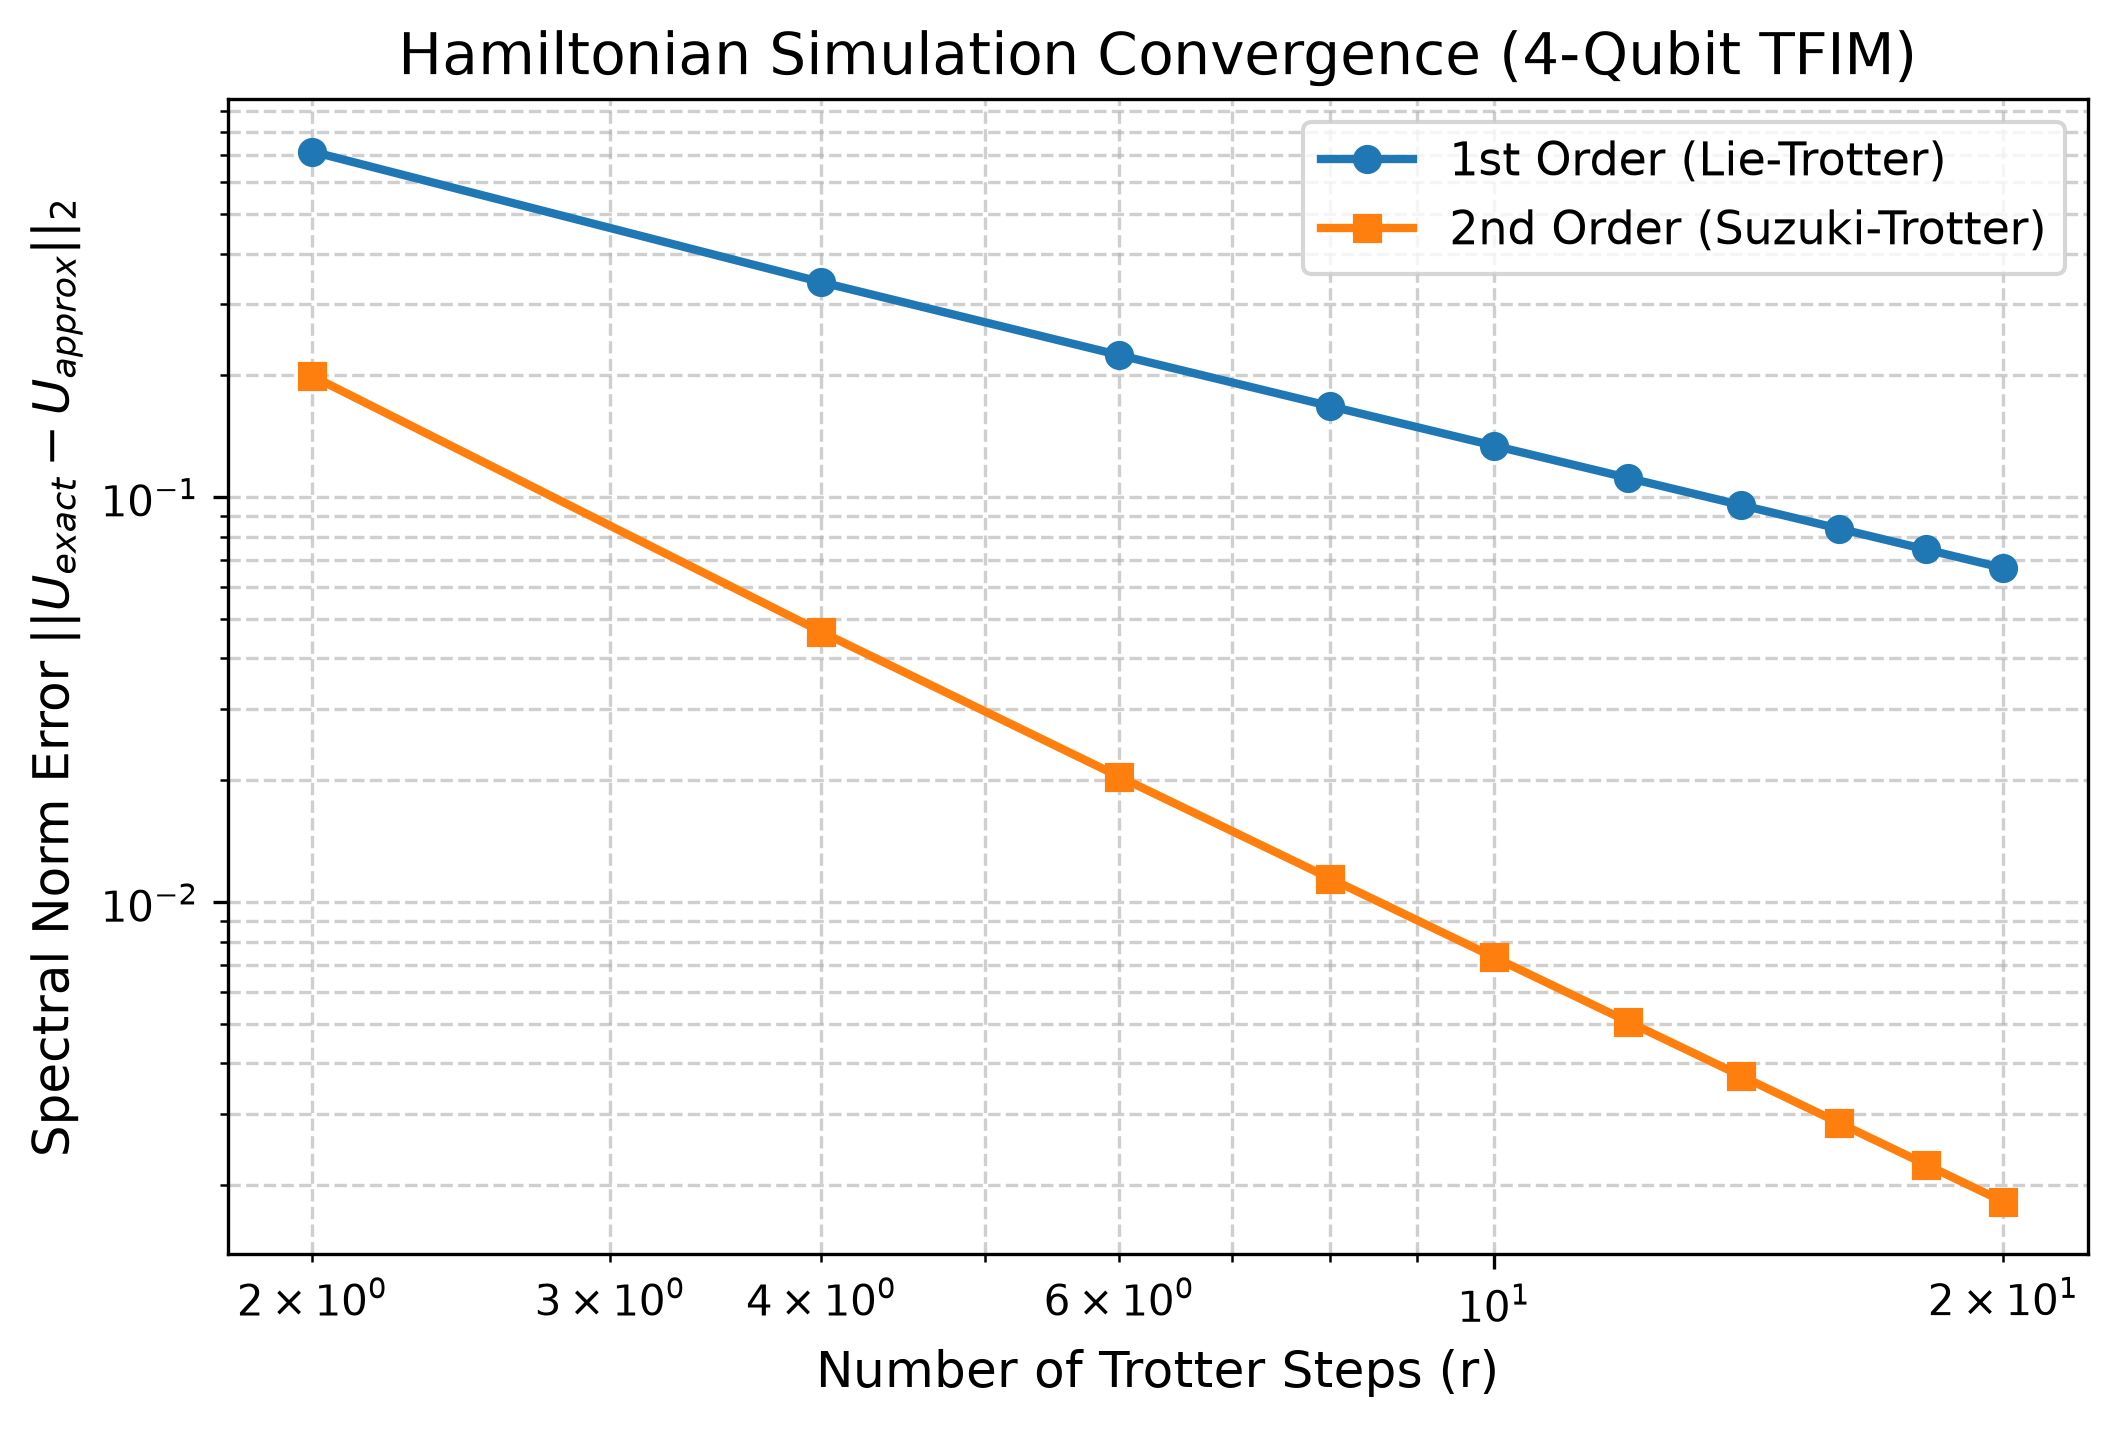
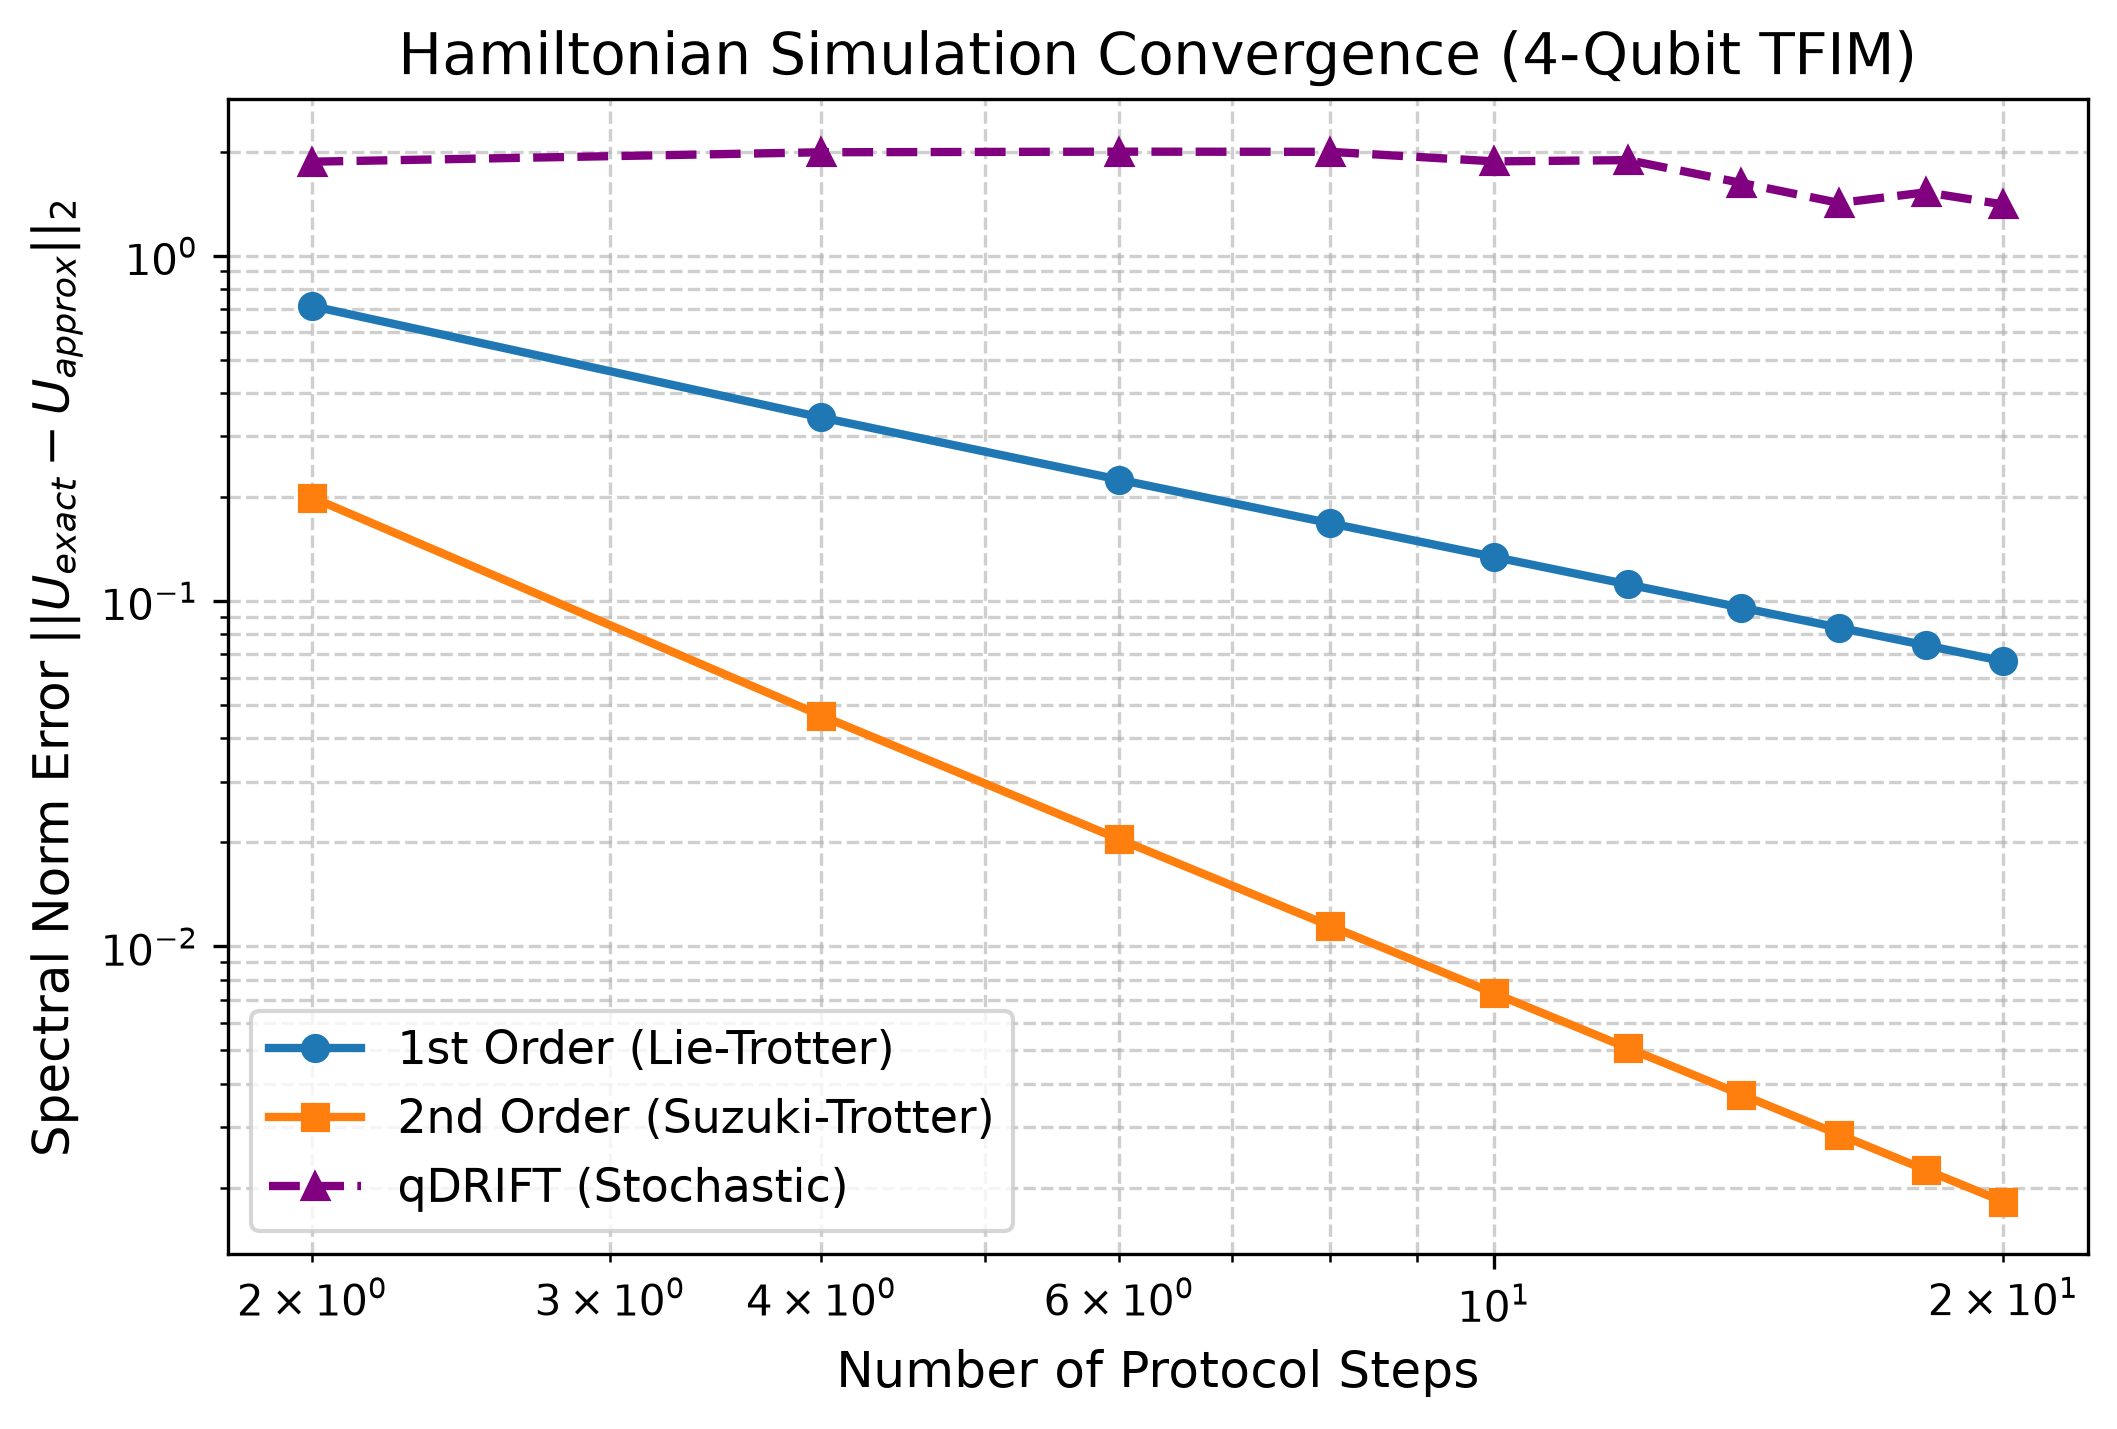
implement stochastic qDRIFT and hardware execution script

diff --git a/experiments/run_benchmark.py b/experiments/run_benchmark.py
@@ -7,12 +7,19 @@ from qiskit.quantum_info import Operator
 
 from hamsim.models import get_tfim_hamiltonian
 from hamsim.exact import exact_evolution_unitary
-from hamsim.algorithms import get_trotter_circuit
+from hamsim.algorithms import get_trotter_circuit, get_qdrift_circuit
 
 def calc_error(H, t, steps, order):
     """Calculates the spectral norm error of the Trotter approximation."""
     exact_U = exact_evolution_unitary(H, t)
     qc = get_trotter_circuit(H, t, steps, order)
+    approx_U = Operator(qc).data
+    return np.linalg.norm(exact_U - approx_U, ord=2)
+
+def calc_qdrift_error(H, t, steps, seed=42):
+    """Calculates the spectral norm error of the qDRIFT approximation."""
+    exact_U = exact_evolution_unitary(H, t)
+    qc = get_qdrift_circuit(H, t, steps, seed)
     approx_U = Operator(qc).data
     return np.linalg.norm(exact_U - approx_U, ord=2)
 
@@ -39,13 +46,15 @@ def main():
     for steps in steps_range:
         err_1 = calc_error(H, t, steps, order=1)
         err_2 = calc_error(H, t, steps, order=2)
+        err_qdrift = calc_qdrift_error(H, t, steps, seed=42)
         
         results.append({
             "steps": steps, 
             "trotter_order_1_error": err_1, 
-            "suzuki_order_2_error": err_2
+            "suzuki_order_2_error": err_2,
+            "qdrift_error": err_qdrift
         })
-        print(f"Steps: {steps:02d} | 1st Order Error: {err_1:.6f} | 2nd Order Error: {err_2:.6f}")
+        print(f"Steps: {steps:02d} | 1st Order: {err_1:.4f} | 2nd Order: {err_2:.4f} | qDRIFT: {err_qdrift:.4f}")
         
     df = pd.DataFrame(results)
     out_path = Path("results") / config['output']['filename']

diff --git a/experiments/run_hardware.py b/experiments/run_hardware.py
@@ -1,0 +1,45 @@
+import os
+import argparse
+from qiskit_ibm_runtime import QiskitRuntimeService, EstimatorV2 as Estimator
+from qiskit.transpiler.preset_passmanagers import generate_preset_pass_manager
+
+from hamsim.models import get_tfim_hamiltonian
+from hamsim.algorithms import get_trotter_circuit
+
+def main():
+    parser = argparse.ArgumentParser()
+    parser.add_argument("--steps", type=int, default=2, help="Number of Trotter steps")
+    args = parser.parse_args()
+
+    print("Authenticating with IBM Quantum...")
+    service = QiskitRuntimeService(channel="ibm_quantum_platform")
+    
+    print("Finding the least busy backend...")
+    backend = service.least_busy(simulator=False, operational=True)
+    print(f"Selected Backend: {backend.name}")
+
+    num_qubits = 4
+    H = get_tfim_hamiltonian(num_qubits, J=1.0, h=0.7)
+    
+    observable = H 
+    
+    t = 1.0
+    qc = get_trotter_circuit(H, t, steps=args.steps, order=1)
+    
+    print("Transpiling circuit for the target physical hardware...")
+    pm = generate_preset_pass_manager(target=backend.target, optimization_level=1)
+    isa_circuit = pm.run(qc)
+    isa_observable = observable.apply_layout(isa_circuit.layout)
+
+    print("Submitting job to the quantum hardware...")
+    estimator = Estimator(mode=backend)
+    
+    pub = (isa_circuit, isa_observable)
+    
+    job = estimator.run(pubs=[pub])
+    print(f"Job successfully submitted! Job ID: {job.job_id()}")
+    print("You can monitor the job status on your IBM Quantum Dashboard.")
+    
+
+if __name__ == "__main__":
+    main()

diff --git a/src/hamsim/algorithms.py b/src/hamsim/algorithms.py
@@ -1,3 +1,4 @@
+import numpy as np
 from qiskit.circuit.library import PauliEvolutionGate
 from qiskit.synthesis import LieTrotter, SuzukiTrotter
 from qiskit.quantum_info import SparsePauliOp
@@ -17,5 +18,32 @@ def get_trotter_circuit(hamiltonian: SparsePauliOp, time: float, steps: int, ord
     else:
         raise ValueError("Suzuki-Trotter order must be an even integer (e.g., 2, 4) or 1 for Lie-Trotter.")
         
-    qc = synthesis.synthesize(evo_gate)
+    return synthesis.synthesize(evo_gate)
+
+def get_qdrift_circuit(hamiltonian: SparsePauliOp, time: float, steps: int, seed: int = None) -> QuantumCircuit:
+    """
+    Constructs the quantum circuit for Hamiltonian simulation using the stochastic qDRIFT protocol.
+    """
+    if seed is not None:
+        np.random.seed(seed)
+        
+    coeffs = hamiltonian.coeffs.real
+    abs_coeffs = np.abs(coeffs)
+    lambda_norm = np.sum(abs_coeffs)
+    probabilities = abs_coeffs / lambda_norm
+    
+    tau = (lambda_norm * time) / steps
+    
+    qc = QuantumCircuit(hamiltonian.num_qubits)
+    synthesis = LieTrotter() 
+    
+    sampled_indices = np.random.choice(len(hamiltonian), size=steps, p=probabilities)
+    
+    for idx in sampled_indices:
+        sign = np.sign(coeffs[idx])
+        term_op = SparsePauliOp(hamiltonian.paulis[idx], coeffs=[sign])
+        evo_gate = PauliEvolutionGate(term_op, time=tau)
+        
+        qc.compose(synthesis.synthesize(evo_gate), inplace=True)
+        
     return qc

diff --git a/tests/test_algorithms.py b/tests/test_algorithms.py
@@ -2,15 +2,13 @@ import numpy as np
 from qiskit.quantum_info import Operator
 from hamsim.models import get_tfim_hamiltonian
 from hamsim.exact import exact_evolution_unitary
-from hamsim.algorithms import get_trotter_circuit
+from hamsim.algorithms import get_trotter_circuit, get_qdrift_circuit
 
 def trotter_error(H, t, steps, order):
     """Calculates the spectral norm of the difference between exact and approximate evolution."""
     exact_U = exact_evolution_unitary(H, t)
-    
     qc = get_trotter_circuit(H, t, steps, order)
     approx_U = Operator(qc).data
-    
     return np.linalg.norm(exact_U - approx_U, ord=2)
 
 def test_trotter_error_decreases_with_steps():
@@ -25,3 +23,16 @@ def test_suzuki_better_than_trotter():
     err_1st = trotter_error(H, t=1.0, steps=4, order=1)
     err_2nd = trotter_error(H, t=1.0, steps=4, order=2)
     assert err_2nd < err_1st, "Second-order Suzuki was not more accurate"
+
+def test_qdrift_reproducibility():
+    """Verify that qDRIFT circuits are exactly reproducible with a fixed seed."""
+    H = get_tfim_hamiltonian(num_qubits=4, J=1.0, h=0.7)
+    
+    # Generate two independent circuits using the same seed
+    qc1 = get_qdrift_circuit(H, time=1.0, steps=10, seed=42)
+    qc2 = get_qdrift_circuit(H, time=1.0, steps=10, seed=42)
+    
+    U1 = Operator(qc1).data
+    U2 = Operator(qc2).data
+    
+    assert np.allclose(U1, U2), "qDRIFT circuits with identical seeds produced different unitaries"

diff --git a/experiments/plot_benchmark.py b/experiments/plot_benchmark.py
@@ -2,31 +2,27 @@ import pandas as pd
 import matplotlib.pyplot as plt
 
 def main():
-    # Load the benchmark data
     data_path = "results/benchmark_tfim.csv"
     df = pd.read_csv(data_path)
     
-    # Configure the plot style
     plt.figure(figsize=(8, 5))
     
-    # Plot both error curves
     plt.plot(df['steps'], df['trotter_order_1_error'], 
              marker='o', linestyle='-', linewidth=2, label='1st Order (Lie-Trotter)')
     plt.plot(df['steps'], df['suzuki_order_2_error'], 
              marker='s', linestyle='-', linewidth=2, label='2nd Order (Suzuki-Trotter)')
+    plt.plot(df['steps'], df['qdrift_error'], 
+             marker='^', linestyle='--', linewidth=2, color='purple', label='qDRIFT (Stochastic)')
     
-    # Use log-log scale to clearly show the difference in asymptotic scaling
     plt.xscale('log')
     plt.yscale('log')
     
-    # Formatting
-    plt.xlabel('Number of Trotter Steps (r)', fontsize=12)
+    plt.xlabel('Number of Protocol Steps', fontsize=12)
     plt.ylabel('Spectral Norm Error $||U_{exact} - U_{approx}||_2$', fontsize=12)
     plt.title('Hamiltonian Simulation Convergence (4-Qubit TFIM)', fontsize=14)
     plt.grid(True, which="both", linestyle="--", alpha=0.6)
     plt.legend(fontsize=11)
     
-    # Save the figure
     out_file = "results/tfim_scaling.png"
     plt.savefig(out_file, dpi=300, bbox_inches='tight')
     print(f"Convergence plot saved to {out_file}")
